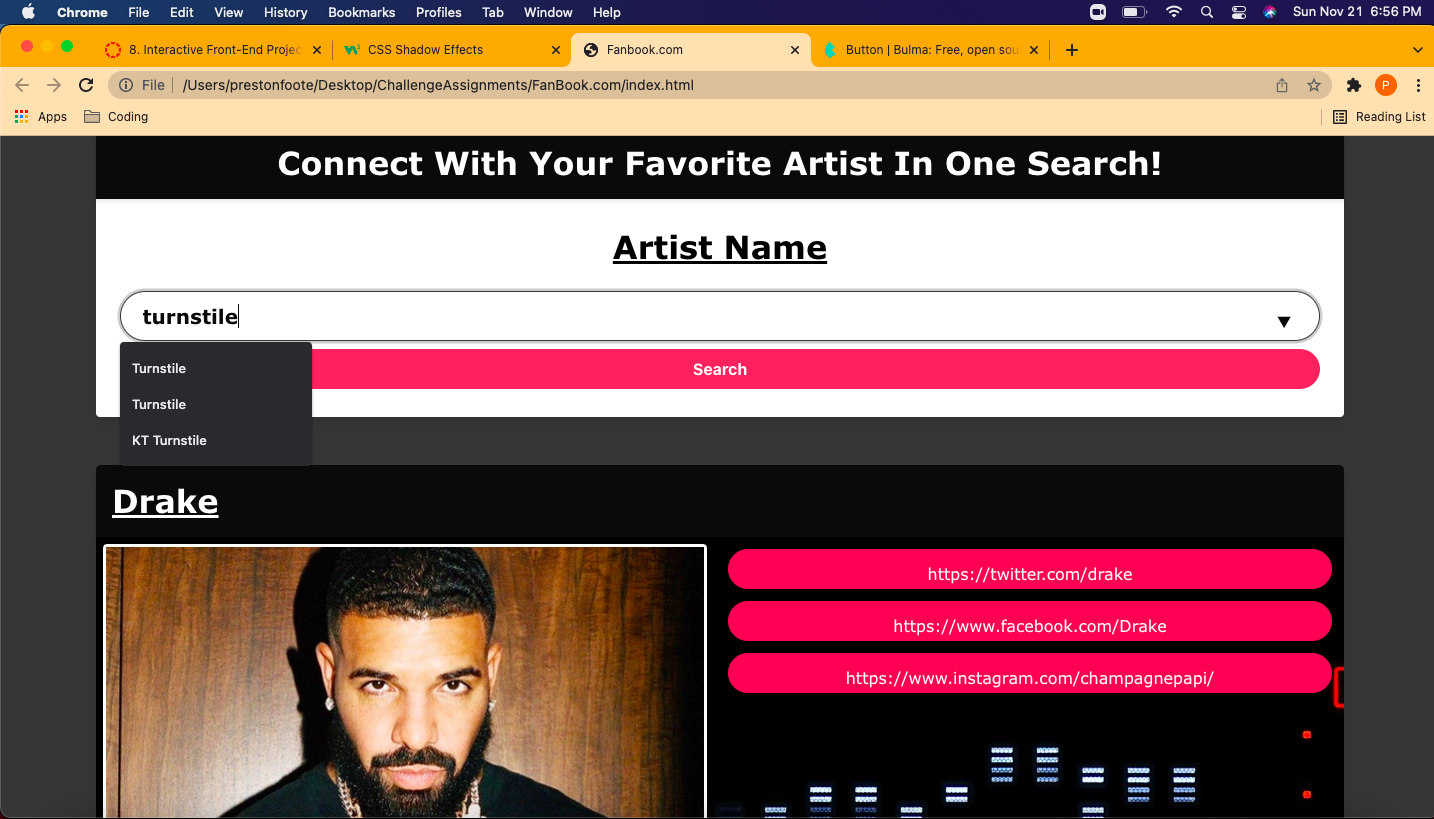
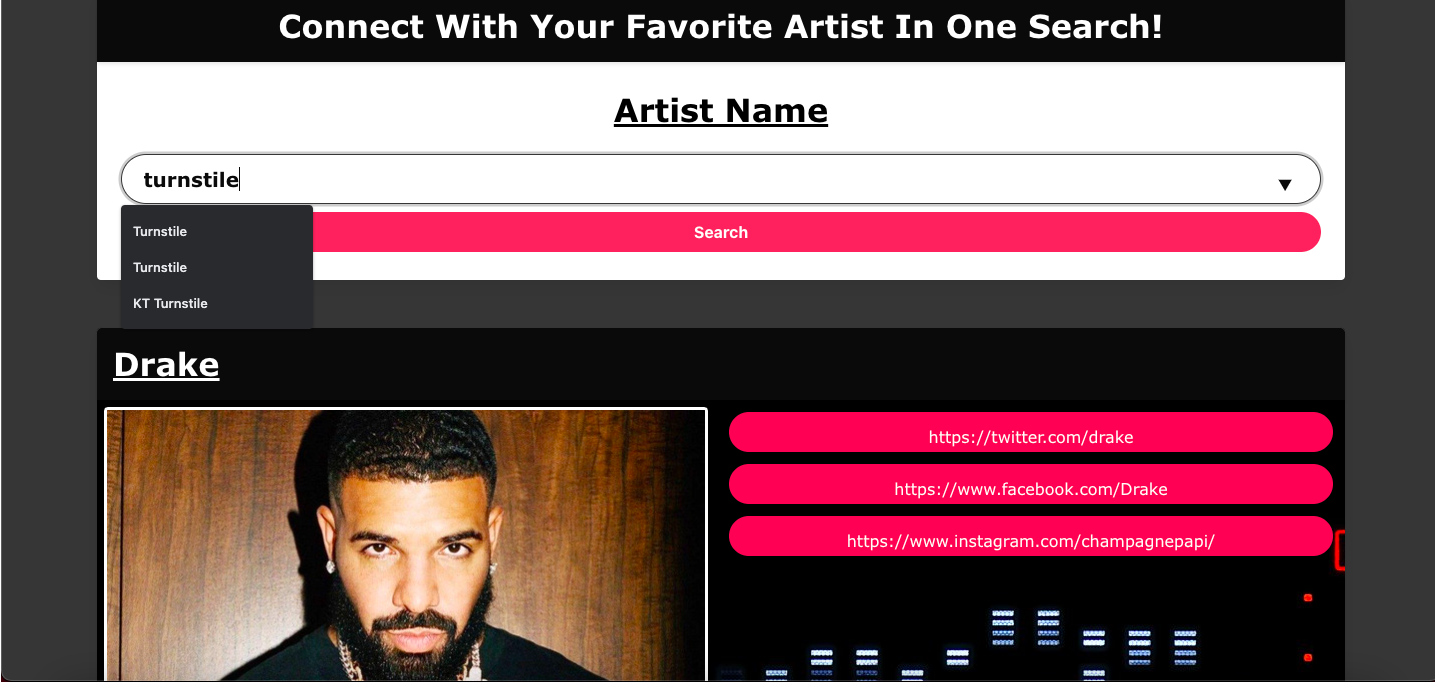
added screenshots and cleaned up code for submission

diff --git a/README.md b/README.md
@@ -37,3 +37,13 @@ Then I am Presented with My Favorite Artist's Most Recent Data
 
 * [MusicBrainz API](https://musicbrainz.org/doc/MusicBrainz_API)
 * [Discogs API](https://www.discogs.com/developers)
+
+## Screenshots
+
+_Example of searching for artist "Turnstile" with previous search of "Drake" on screen:_
+
+![Screenshot 1 of Fanbook](./assets/images/fanbook-scshot-1.png)
+
+_Example of searching for artist "Madonna" with previous search of "Turnstile" on screen:_
+
+![Screenshot 2 of Fanbook](./assets/images/fanbook.scshot-2.png)
